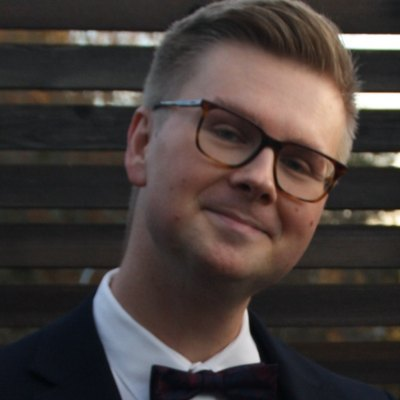
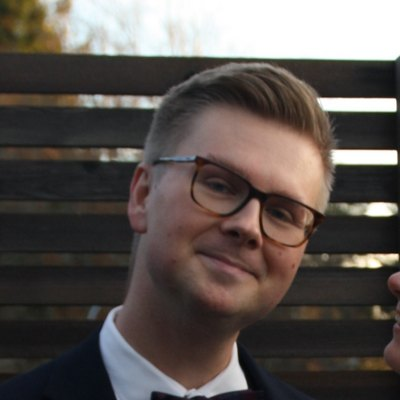
Beskär porträttet med mer luft ovanför håret

diff --git a/index.html b/index.html
@@ -867,7 +867,7 @@ html:not(.motion) .blob{position:fixed}
         <p class="lead" style="margin-top:18px">Tre konkreta förbättringar, mätvärden för hastighet och tillgänglighet, och ett ungefärligt pris. Utan förpliktelser.</p>
         <ol><li>Ni fyller i formuläret – cirka en minut</li><li>Vi går igenom sajten</li><li>Ni får svar inom några arbetsdagar</li></ol>
         <div class="me">
-          <div class="me-pic"><img src="oliver.jpg" alt="Oliver, grundare av Webbglans" width="84" height="84" loading="lazy"></div>
+          <div class="me-pic"><img src="oliver.jpg?v=2" alt="Oliver, grundare av Webbglans" width="84" height="84" loading="lazy"></div>
           <div><p class="me-name">Oliver, Webbglans</p><p class="me-txt">Tvåbarnspappa och lärare med ett livslångt intresse för datorer och IT. Läraryrket har gett mig en känsla för pedagogik och för hur teknik blir enkel att använda – det är det jag tar med in i varje hemsida. Jag driver Webbglans från Holmsund, och ni pratar med mig hela vägen.</p><p class="me-txt"><a href="mailto:hej@webbglans.se">hej@webbglans.se</a></p></div>
         </div>
       </div>
